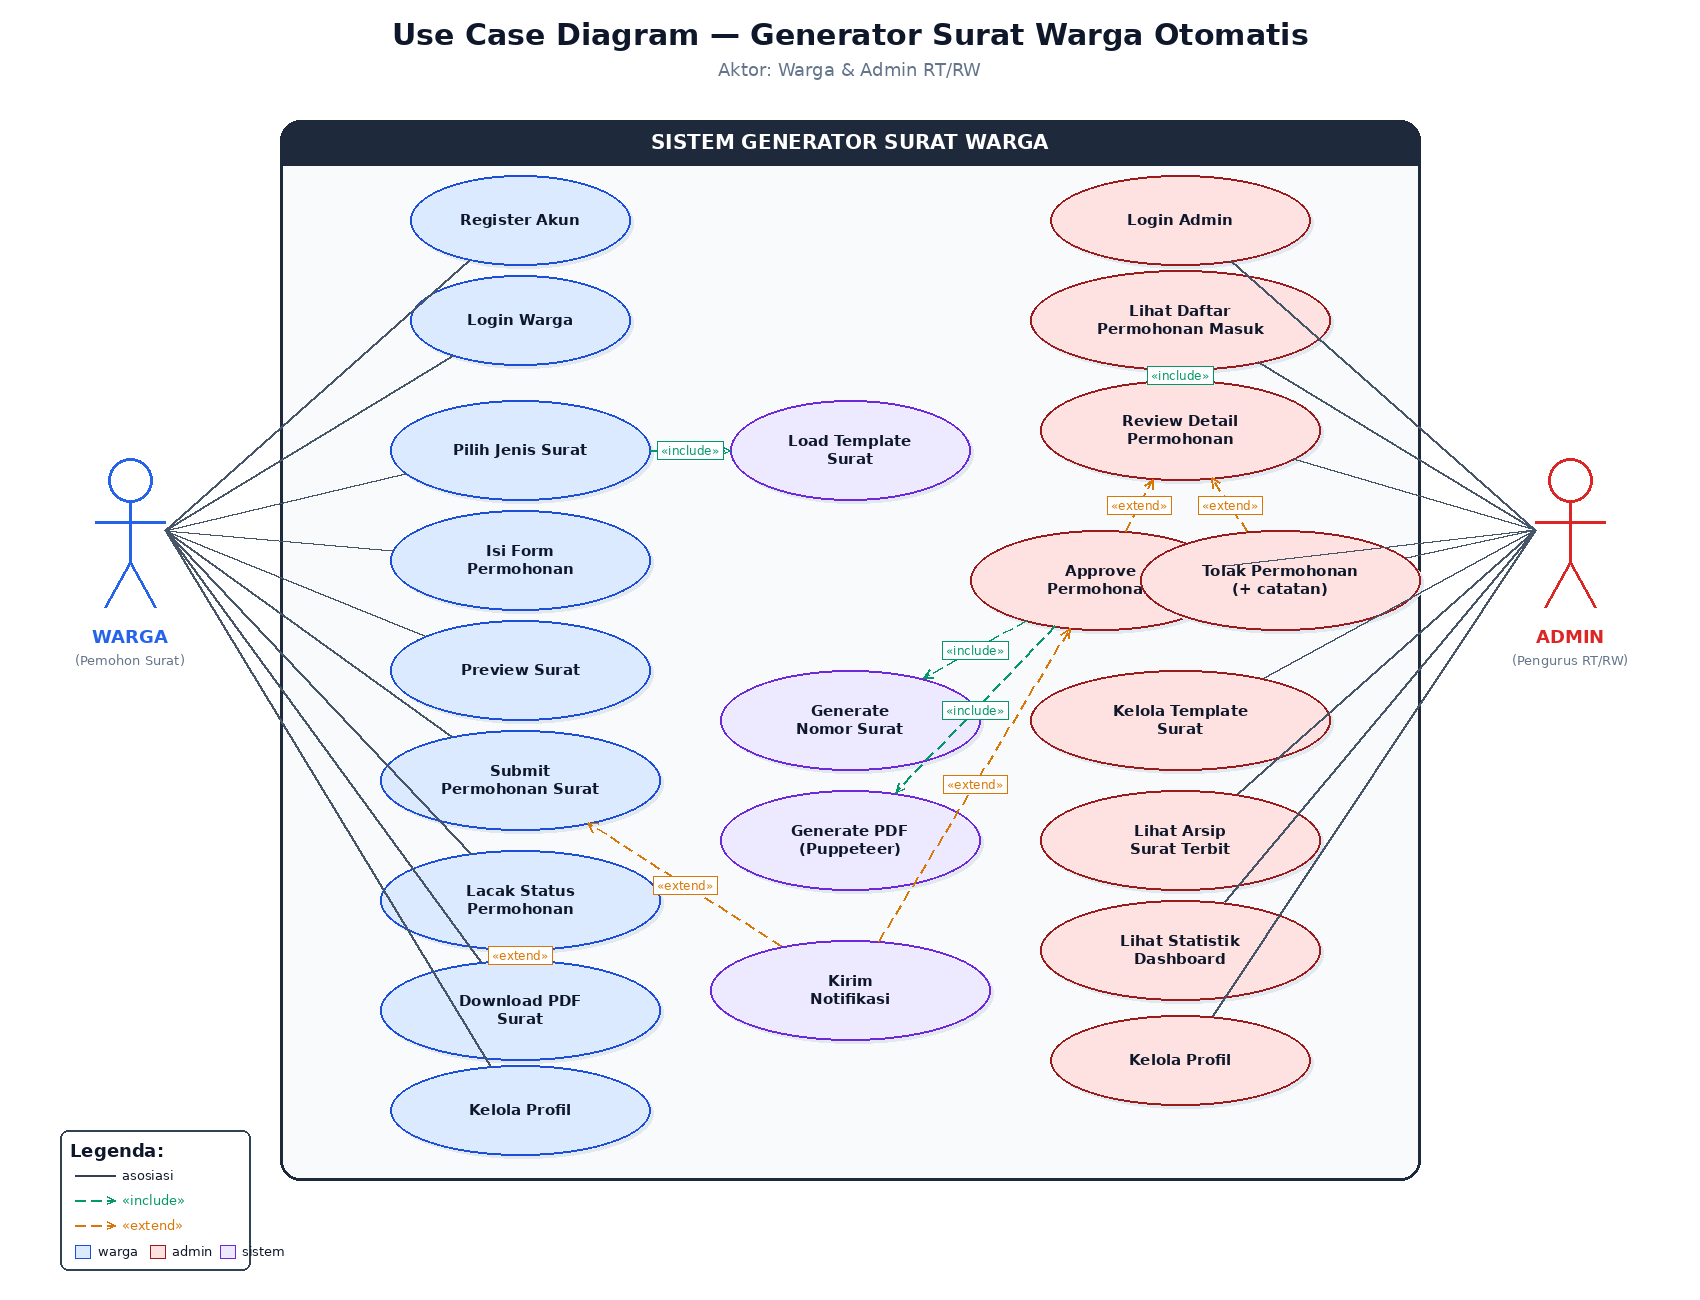
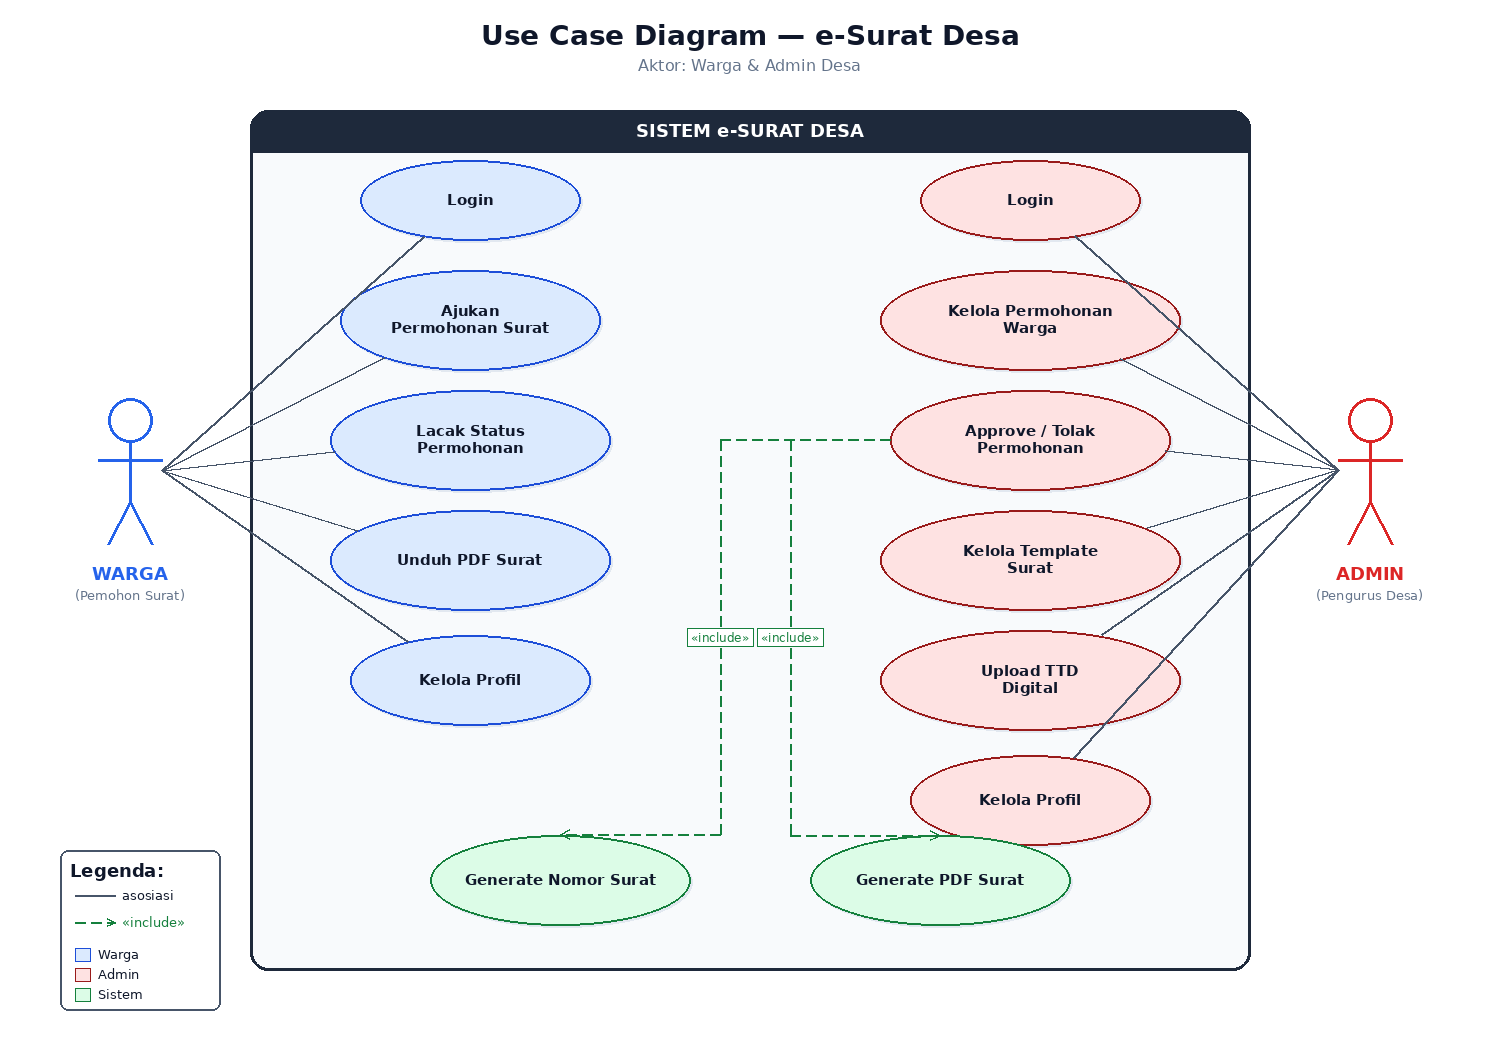
docs: use case diagram simpel & jelas untuk e-Surat Desa
- Pangkas dari 22 use case menjadi 13 (5 warga + 6 admin + 2 sistem)
- Hapus kompleksitas <<extend>>; sisakan <<include>> untuk:
  - Approve/Tolak -> Generate Nomor Surat
  - Approve/Tolak -> Generate PDF Surat
- Use case admin disesuaikan kondisi aplikasi terkini:
  - Tambah 'Upload TTD Digital'
  - 'Kelola Permohonan Warga' (gabungan list + detail + arsip)
  - 'Approve / Tolak Permohonan' digabung
- Garis <<include>> pakai jalur orthogonal (siku) supaya tidak menembus
  use case lain di kolom admin
- Update Use-Case-Diagram.md sesuai gambar baru

Changed region(s): [[0.0307, 0.0, 0.9507, 0.9752], [0.46, 0.3352, 0.552, 0.3657]]

diff --git a/docs/.render_usecase.py b/docs/.render_usecase.py
@@ -1,0 +1,297 @@
+#!/usr/bin/env python3
+"""Use Case Diagram — e-Surat Desa (versi simpel & jelas)."""
+
+from PIL import Image, ImageDraw, ImageFont
+import os, math
+
+# ===================================================================
+# Canvas
+# ===================================================================
+W, H = 1500, 1050
+BG = (255, 255, 255)
+img = Image.new("RGB", (W, H), BG)
+draw = ImageDraw.Draw(img)
+
+def load_font(size, bold=False):
+    paths_r = ["/usr/share/fonts/TTF/DejaVuSans.ttf",
+               "/usr/share/fonts/truetype/dejavu/DejaVuSans.ttf"]
+    paths_b = ["/usr/share/fonts/TTF/DejaVuSans-Bold.ttf",
+               "/usr/share/fonts/truetype/dejavu/DejaVuSans-Bold.ttf"]
+    for p in (paths_b if bold else paths_r):
+        if os.path.exists(p):
+            return ImageFont.truetype(p, size)
+    return ImageFont.load_default()
+
+f_title    = load_font(28, True)
+f_subtitle = load_font(16)
+f_actor    = load_font(18, True)
+f_actor_sub= load_font(13)
+f_uc       = load_font(15, True)
+f_stereo   = load_font(12)
+f_system   = load_font(18, True)
+f_legend   = load_font(13)
+
+# Colors
+TEXT_DARK   = (15, 23, 42)
+TEXT_MUTED  = (100, 116, 139)
+LINE_C      = (71, 85, 105)
+
+WARGA_COL   = (37, 99, 235)
+ADMIN_COL   = (220, 38, 38)
+SYSTEM_BORDER = (30, 41, 59)
+SYSTEM_BG   = (248, 250, 252)
+
+UC_FILL_W   = (219, 234, 254)   # blue-100  (warga)
+UC_BORD_W   = (29, 78, 216)
+UC_FILL_A   = (254, 226, 226)   # red-100   (admin)
+UC_BORD_A   = (153, 27, 27)
+UC_FILL_S   = (220, 252, 231)   # green-100 (sistem otomatis)
+UC_BORD_S   = (21, 128, 61)
+
+INC_COLOR   = (21, 128, 61)     # green (include)
+
+# ===================================================================
+# Title
+# ===================================================================
+draw.text((W//2, 35), "Use Case Diagram — e-Surat Desa",
+          font=f_title, fill=TEXT_DARK, anchor="mm")
+draw.text((W//2, 65), "Aktor: Warga & Admin Desa",
+          font=f_subtitle, fill=TEXT_MUTED, anchor="mm")
+
+# ===================================================================
+# System boundary
+# ===================================================================
+SYS_X1, SYS_Y1 = 250, 110
+SYS_X2, SYS_Y2 = 1250, 970
+
+draw.rounded_rectangle([SYS_X1, SYS_Y1, SYS_X2, SYS_Y2],
+                       radius=18, outline=SYSTEM_BORDER, width=3, fill=SYSTEM_BG)
+# title bar
+draw.rounded_rectangle([SYS_X1, SYS_Y1, SYS_X2, SYS_Y1+42],
+                       radius=18, fill=SYSTEM_BORDER)
+draw.rectangle([SYS_X1, SYS_Y1+24, SYS_X2, SYS_Y1+42], fill=SYSTEM_BORDER)
+draw.text(((SYS_X1+SYS_X2)//2, SYS_Y1+21),
+          "SISTEM e-SURAT DESA",
+          font=f_system, fill=(255, 255, 255), anchor="mm")
+
+# ===================================================================
+# Stick figure actor
+# ===================================================================
+def draw_actor(cx, cy, name, role_label, color):
+    head_r = 22
+    draw.ellipse([cx-head_r, cy-head_r, cx+head_r, cy+head_r],
+                 outline=color, width=3, fill=(255, 255, 255))
+    body_top = cy + head_r
+    body_bot = cy + head_r + 60
+    draw.line([(cx, body_top), (cx, body_bot)], fill=color, width=3)
+    draw.line([(cx-32, body_top+18), (cx+32, body_top+18)], fill=color, width=3)
+    draw.line([(cx, body_bot), (cx-22, body_bot+42)], fill=color, width=3)
+    draw.line([(cx, body_bot), (cx+22, body_bot+42)], fill=color, width=3)
+    draw.text((cx, body_bot+72), name, font=f_actor, fill=color, anchor="mm")
+    draw.text((cx, body_bot+93), role_label, font=f_actor_sub, fill=TEXT_MUTED, anchor="mm")
+
+WARGA_X, WARGA_Y = 130, 420
+ADMIN_X, ADMIN_Y = 1370, 420
+
+draw_actor(WARGA_X, WARGA_Y, "WARGA", "(Pemohon Surat)", WARGA_COL)
+draw_actor(ADMIN_X, ADMIN_Y, "ADMIN", "(Pengurus Desa)", ADMIN_COL)
+
+# ===================================================================
+# Use case ellipse helper
+# ===================================================================
+def use_case(cx, cy, rx, ry, text_lines, fill, border):
+    draw.ellipse([cx-rx+2, cy-ry+2, cx+rx+2, cy+ry+2], fill=(226, 232, 240))
+    draw.ellipse([cx-rx, cy-ry, cx+rx, cy+ry], fill=fill, outline=border, width=2)
+    if isinstance(text_lines, str):
+        text_lines = [text_lines]
+    line_h = 17
+    total_h = line_h * len(text_lines)
+    start_y = cy - total_h//2 + line_h//2
+    for i, t in enumerate(text_lines):
+        draw.text((cx, start_y + i*line_h), t, font=f_uc, fill=TEXT_DARK, anchor="mm")
+    return (cx, cy, rx, ry)
+
+# ===================================================================
+# Use cases (simpel — fokus core flow)
+# ===================================================================
+# WARGA (kolom kiri, 5 use case)
+UC_LOGIN_W   = (470, 200, 110, 40)
+UC_AJUKAN    = (470, 320, 130, 50)
+UC_LACAK     = (470, 440, 140, 50)
+UC_DOWNLOAD  = (470, 560, 140, 50)
+UC_PROFIL_W  = (470, 680, 120, 45)
+
+# ADMIN (kolom kanan, 6 use case)
+UC_LOGIN_A   = (1030, 200, 110, 40)
+UC_KELOLA_P  = (1030, 320, 150, 50)
+UC_APPROVE   = (1030, 440, 140, 50)
+UC_KELOLA_T  = (1030, 560, 150, 50)
+UC_UPLOAD_T  = (1030, 680, 150, 50)
+UC_PROFIL_A  = (1030, 800, 120, 45)
+
+# SISTEM otomatis (tengah-bawah, dipanggil <<include>> oleh Approve)
+UC_GEN_NOMOR = (560, 880, 130, 45)
+UC_GEN_PDF   = (940, 880, 130, 45)
+
+# Render warga
+use_case(*UC_LOGIN_W [:4], "Login",                          UC_FILL_W, UC_BORD_W)
+use_case(*UC_AJUKAN  [:4], ["Ajukan", "Permohonan Surat"],   UC_FILL_W, UC_BORD_W)
+use_case(*UC_LACAK   [:4], ["Lacak Status", "Permohonan"],   UC_FILL_W, UC_BORD_W)
+use_case(*UC_DOWNLOAD[:4], ["Unduh PDF Surat"],              UC_FILL_W, UC_BORD_W)
+use_case(*UC_PROFIL_W[:4], "Kelola Profil",                  UC_FILL_W, UC_BORD_W)
+
+# Render admin
+use_case(*UC_LOGIN_A [:4], "Login",                          UC_FILL_A, UC_BORD_A)
+use_case(*UC_KELOLA_P[:4], ["Kelola Permohonan", "Warga"],   UC_FILL_A, UC_BORD_A)
+use_case(*UC_APPROVE [:4], ["Approve / Tolak", "Permohonan"],UC_FILL_A, UC_BORD_A)
+use_case(*UC_KELOLA_T[:4], ["Kelola Template", "Surat"],     UC_FILL_A, UC_BORD_A)
+use_case(*UC_UPLOAD_T[:4], ["Upload TTD", "Digital"],        UC_FILL_A, UC_BORD_A)
+use_case(*UC_PROFIL_A[:4], "Kelola Profil",                  UC_FILL_A, UC_BORD_A)
+
+# Render sistem
+use_case(*UC_GEN_NOMOR[:4],["Generate Nomor Surat"],         UC_FILL_S, UC_BORD_S)
+use_case(*UC_GEN_PDF [:4], ["Generate PDF Surat"],           UC_FILL_S, UC_BORD_S)
+
+# ===================================================================
+# Edge helpers
+# ===================================================================
+def ellipse_edge_point(cx, cy, rx, ry, tx, ty):
+    dx, dy = tx - cx, ty - cy
+    dist = math.hypot(dx, dy)
+    if dist == 0:
+        return cx, cy
+    t = 1.0 / math.sqrt((dx/rx)**2 + (dy/ry)**2)
+    return cx + dx * t, cy + dy * t
+
+def dashed_line(p1, p2, color=LINE_C, width=2, dash=10, gap=6):
+    x1, y1 = p1
+    x2, y2 = p2
+    dx, dy = x2-x1, y2-y1
+    dist = math.hypot(dx, dy)
+    if dist == 0:
+        return
+    ux, uy = dx/dist, dy/dist
+    n = int(dist // (dash + gap))
+    for i in range(n+1):
+        sx = x1 + ux * (i*(dash+gap))
+        sy = y1 + uy * (i*(dash+gap))
+        ex = sx + ux * dash
+        ey = sy + uy * dash
+        if math.hypot(ex-x1, ey-y1) > dist:
+            ex, ey = x2, y2
+        draw.line([(sx, sy), (ex, ey)], fill=color, width=width)
+
+def arrow_head_at(p_from, p_to, color, size=10):
+    x1, y1 = p_from
+    x2, y2 = p_to
+    angle = math.atan2(y2-y1, x2-x1)
+    a1 = angle + math.radians(155)
+    a2 = angle - math.radians(155)
+    p1 = (x2 + size*math.cos(a1), y2 + size*math.sin(a1))
+    p2 = (x2 + size*math.cos(a2), y2 + size*math.sin(a2))
+    draw.line([p1, (x2, y2)], fill=color, width=2)
+    draw.line([p2, (x2, y2)], fill=color, width=2)
+
+def stereo_label(p1, p2, text, color):
+    mx = (p1[0] + p2[0]) // 2
+    my = (p1[1] + p2[1]) // 2
+    label = f"«{text}»"
+    bbox = draw.textbbox((mx, my), label, font=f_stereo, anchor="mm")
+    pad = 4
+    draw.rectangle([bbox[0]-pad, bbox[1]-pad, bbox[2]+pad, bbox[3]+pad],
+                   fill=(255, 255, 255), outline=color)
+    draw.text((mx, my), label, font=f_stereo, fill=color, anchor="mm")
+
+def actor_to_uc(actor_x, actor_y, uc, color=LINE_C):
+    cx, cy, rx, ry = uc[:4]
+    body_y = actor_y + 50
+    ex, ey = ellipse_edge_point(cx, cy, rx, ry, actor_x, body_y)
+    if cx > actor_x:
+        ax = actor_x + 32
+    else:
+        ax = actor_x - 32
+    ay = body_y
+    draw.line([(ax, ay), (ex, ey)], fill=color, width=2)
+
+def uc_to_uc_dashed(src, dst, stereo, color):
+    sx, sy, srx, sry = src[:4]
+    dx, dy, drx, dry = dst[:4]
+    p1 = ellipse_edge_point(sx, sy, srx, sry, dx, dy)
+    p2 = ellipse_edge_point(dx, dy, drx, dry, sx, sy)
+    dashed_line(p1, p2, color=color)
+    arrow_head_at(p1, p2, color)
+    stereo_label(p1, p2, stereo, color)
+
+def uc_to_uc_dashed_orthogonal(src, dst, stereo, color, via_x):
+    """Dashed line dengan jalur siku: keluar dari KIRI src,
+    lurus ke kolom via_x, turun ke level dst, lalu masuk ATAS dst.
+    Aman dari overlap dengan use case lain di kolom yang sama."""
+    sx, sy, srx, sry = src[:4]
+    dx, dy, drx, dry = dst[:4]
+    # exit point: kiri ellipse src
+    p1 = (sx - srx, sy)
+    # entry point: atas ellipse dst
+    p2 = (dx, dy - dry)
+    waypoint1 = (via_x, sy)         # belok dari horizontal ke vertikal
+    waypoint2 = (via_x, p2[1])      # belok dari vertikal ke horizontal
+    dashed_line(p1, waypoint1, color=color)
+    dashed_line(waypoint1, waypoint2, color=color)
+    dashed_line(waypoint2, p2, color=color)
+    arrow_head_at(waypoint2, p2, color)
+    # label di segmen vertikal panjang
+    midv1 = (via_x, (waypoint1[1] + waypoint2[1]) / 2)
+    midv2 = (via_x + 1, midv1[1])  # dummy untuk anchor
+    stereo_label(midv1, midv2, stereo, color)
+
+# ===================================================================
+# Asosiasi aktor → use case
+# ===================================================================
+warga_ucs = [UC_LOGIN_W, UC_AJUKAN, UC_LACAK, UC_DOWNLOAD, UC_PROFIL_W]
+admin_ucs = [UC_LOGIN_A, UC_KELOLA_P, UC_APPROVE, UC_KELOLA_T, UC_UPLOAD_T, UC_PROFIL_A]
+
+for uc in warga_ucs:
+    actor_to_uc(WARGA_X, WARGA_Y, uc)
+for uc in admin_ucs:
+    actor_to_uc(ADMIN_X, ADMIN_Y, uc)
+
+# ===================================================================
+# <<include>> — proses sistem otomatis yang dipicu use case
+# ===================================================================
+# Approve <<include>> Generate Nomor + Generate PDF
+# Pakai jalur orthogonal turun dulu lewat kolom kosong (x=830) sebelum menuju node sistem
+# supaya garis tidak melewati Kelola Template / Upload TTD / Profil Admin yang segaris dengan Approve.
+uc_to_uc_dashed_orthogonal(UC_APPROVE, UC_GEN_NOMOR, "include", INC_COLOR, via_x=720)
+uc_to_uc_dashed_orthogonal(UC_APPROVE, UC_GEN_PDF,   "include", INC_COLOR, via_x=790)
+
+# ===================================================================
+# Legend
+# ===================================================================
+LEG_X1, LEG_Y1 = 60, 850
+LEG_X2, LEG_Y2 = 220, 1010
+draw.rounded_rectangle([LEG_X1, LEG_Y1, LEG_X2, LEG_Y2],
+                       radius=8, fill=(255, 255, 255), outline=LINE_C, width=2)
+draw.text((LEG_X1+10, LEG_Y1+10), "Legenda:", font=f_actor, fill=TEXT_DARK)
+
+# Solid line
+draw.line([(LEG_X1+15, LEG_Y1+45), (LEG_X1+55, LEG_Y1+45)], fill=LINE_C, width=2)
+draw.text((LEG_X1+62, LEG_Y1+45), "asosiasi", font=f_legend, fill=TEXT_DARK, anchor="lm")
+
+# Dashed include
+dashed_line((LEG_X1+15, LEG_Y1+72), (LEG_X1+55, LEG_Y1+72), color=INC_COLOR)
+arrow_head_at((LEG_X1+15, LEG_Y1+72), (LEG_X1+55, LEG_Y1+72), INC_COLOR, size=8)
+draw.text((LEG_X1+62, LEG_Y1+72), "«include»", font=f_legend, fill=INC_COLOR, anchor="lm")
+
+# Color chips
+draw.rectangle([LEG_X1+15, LEG_Y1+98, LEG_X1+30, LEG_Y1+111], fill=UC_FILL_W, outline=UC_BORD_W)
+draw.text((LEG_X1+38, LEG_Y1+104), "Warga",  font=f_legend, fill=TEXT_DARK, anchor="lm")
+draw.rectangle([LEG_X1+15, LEG_Y1+118, LEG_X1+30, LEG_Y1+131], fill=UC_FILL_A, outline=UC_BORD_A)
+draw.text((LEG_X1+38, LEG_Y1+124), "Admin",  font=f_legend, fill=TEXT_DARK, anchor="lm")
+draw.rectangle([LEG_X1+15, LEG_Y1+138, LEG_X1+30, LEG_Y1+151], fill=UC_FILL_S, outline=UC_BORD_S)
+draw.text((LEG_X1+38, LEG_Y1+144), "Sistem", font=f_legend, fill=TEXT_DARK, anchor="lm")
+
+# ===================================================================
+# Save
+# ===================================================================
+out_a = "/home/yume/Me/Task/Project/surat-warga/docs/Use-Case-Diagram.png"
+img.save(out_a, "PNG", optimize=True)
+print(f"Saved: {out_a}  ({os.path.getsize(out_a)} bytes)")

diff --git a/docs/Use-Case-Diagram.md b/docs/Use-Case-Diagram.md
@@ -1,31 +1,52 @@
-# Use Case Diagram
+# Use Case Diagram — e-Surat Desa
 
-![Use Case](./Use-Case-Diagram.png)
+![Use Case Diagram](./Use-Case-Diagram.png)
 
 ## Aktor
 
-- **Warga** — pemohon surat
-- **Admin** — pengurus desa/RT/RW
+- **Warga** — pemohon surat (warga desa yang membutuhkan surat keterangan).
+- **Admin** — pengurus desa/RT/RW yang memproses permohonan.
 
-## Use Cases (utama)
+## Use Case
 
 ### Warga
-- Register Akun, Login Warga
-- Pilih Jenis Surat
-- Isi Form Permohonan, Preview Surat
-- Submit Permohonan, Lacak Status
-- Download PDF Surat
+- Login
+- Ajukan Permohonan Surat
+- Lacak Status Permohonan
+- Unduh PDF Surat
 - Kelola Profil
 
 ### Admin
-- Login Admin
-- Lihat Daftar Permohonan, Review Detail
+- Login
+- Kelola Permohonan Warga
 - Approve / Tolak Permohonan
-- Lihat Arsip Surat, Lihat Statistik
+- Kelola Template Surat
+- Upload TTD Digital
 - Kelola Profil
 
-### Sistem (otomatis)
-- Load Template Surat
+### Sistem (otomatis, dipanggil lewat `«include»`)
 - Generate Nomor Surat
-- Generate PDF (Puppeteer)
-- Kirim Notifikasi
+- Generate PDF Surat
+
+## Relasi
+
+| Use Case Pemicu | Tipe | Use Case Tujuan |
+|---|---|---|
+| Approve / Tolak Permohonan | `«include»` | Generate Nomor Surat |
+| Approve / Tolak Permohonan | `«include»` | Generate PDF Surat |
+
+> Saat admin meng-approve permohonan, sistem otomatis membangkitkan nomor surat
+> berurutan dan men-generate PDF resmi (lengkap dengan TTD digital admin bila sudah
+> diupload).
+
+## Catatan Skema
+
+- **Login** dipisah per aktor di diagram, namun secara teknis menggunakan endpoint
+  terpadu `POST /api/auth/login` yang otomatis mendeteksi role berdasarkan email
+  yang terdaftar (cek tabel `admin` lalu `warga`).
+- **Kelola Profil** tersedia untuk kedua aktor (ubah data diri & ganti password);
+  khusus admin terdapat fitur tambahan **Upload TTD Digital**.
+- **Lacak Status Permohonan** mencakup melihat daftar dan detail permohonan milik
+  warga itu sendiri.
+- **Kelola Permohonan Warga** dari sisi admin mencakup melihat daftar permohonan
+  masuk, melihat detail, sampai melihat arsip surat yang sudah terbit.
